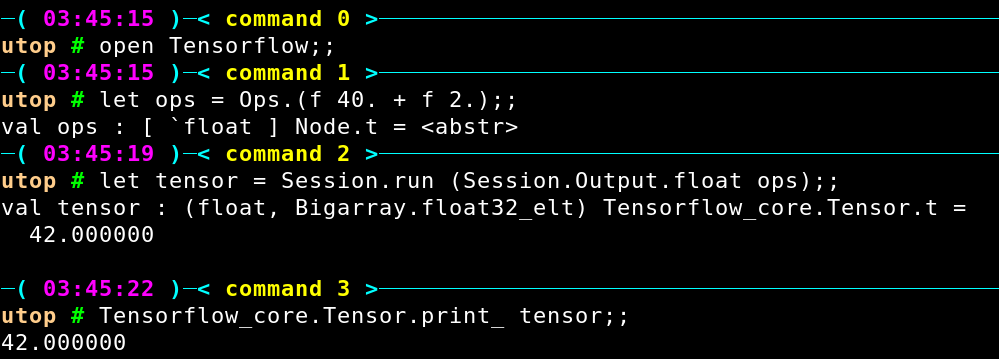
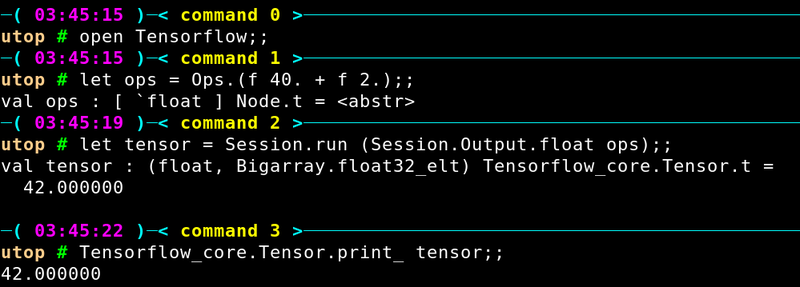
Readme tweak.

diff --git a/README.md b/README.md
@@ -63,7 +63,7 @@ Then run it via `./forty_two.native`. You should now be all set up, enjoy!
 
 You can also run a Tensorflow enabled utop via: `make utop`.
 
-![utop](./bin/utop.png | width=200)
+![utop](./bin/utop.png)
 
 ## Examples
 
